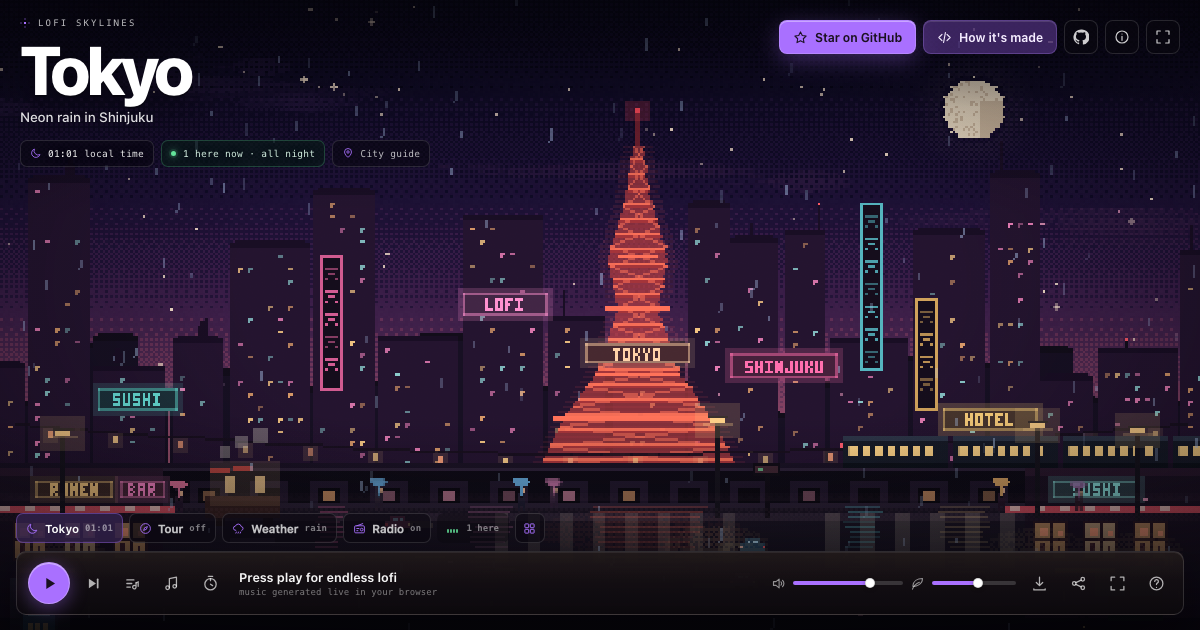
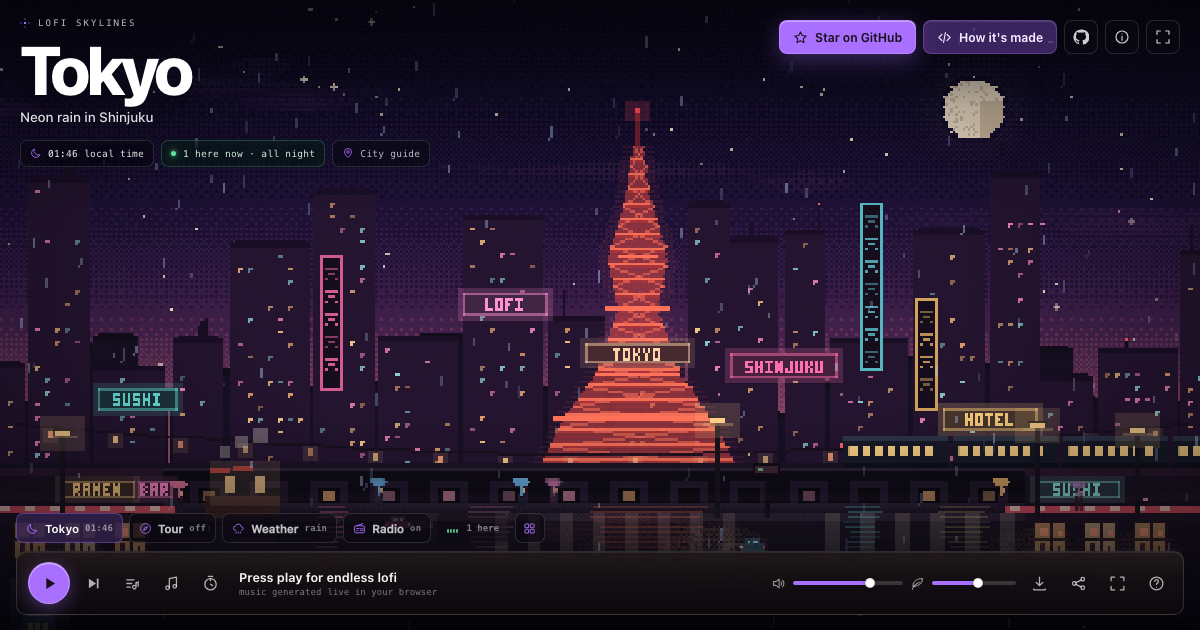
Tidy storefront signs and refresh social card

Changed region(s): [[0.0308, 0.754, 0.1542, 0.8143], [0.8633, 0.754, 0.9558, 0.7841]]

diff --git a/public/js/scenes.js b/public/js/scenes.js
@@ -437,9 +437,9 @@ function drawTokyo(ctx, t, weather, reducedMotion) {
   ctx.fillStyle = "#2b192d";
   ctx.fillRect(0, 196, 65, 3);
   ctx.fillRect(W - 70, 196, 70, 3);
-  drawNeonSign(ctx, { x: 14, y: 201, w: 31, h: 7, text: "RAMEN", color: "#ffcf82", bg: "#1e1017", t });
-  drawNeonSign(ctx, { x: 48, y: 201, w: 18, h: 7, text: "BAR", color: "#ff87c8", bg: "#1e1017", t });
-  drawNeonSign(ctx, { x: 421, y: 201, w: 35, h: 7, text: "SUSHI", color: "#8de5df", bg: "#16121d", t });
+  drawNeonSign(ctx, { x: 24, y: 201, w: 30, h: 7, text: "RAMEN", color: "#ffcf82", bg: "#1e1017", t });
+  drawNeonSign(ctx, { x: 55, y: 201, w: 14, h: 7, text: "BAR", color: "#ff87c8", bg: "#1e1017", t });
+  drawNeonSign(ctx, { x: 414, y: 201, w: 34, h: 7, text: "SUSHI", color: "#8de5df", bg: "#16121d", t });
   ctx.fillStyle = "#d84f5e";
   ctx.fillRect(0, 211, 70, 3);
   ctx.fillRect(W - 78, 211, 78, 3);
